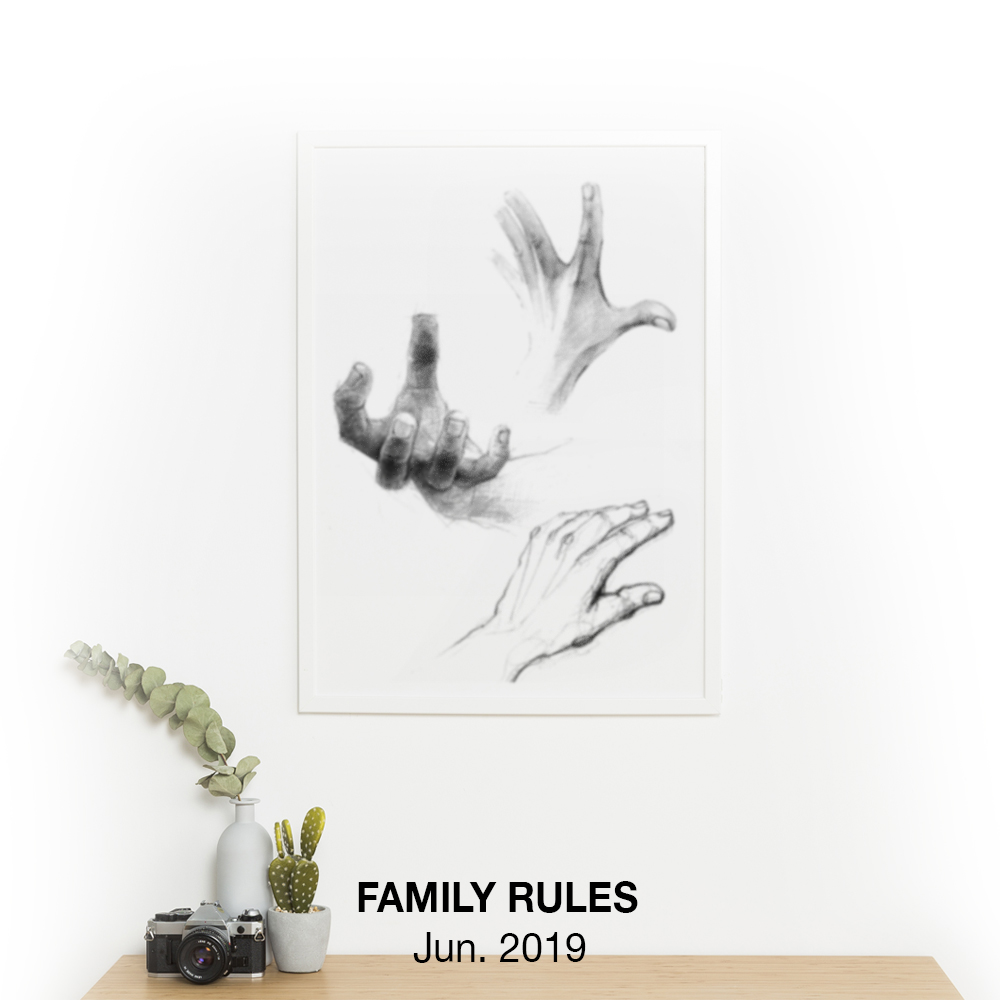
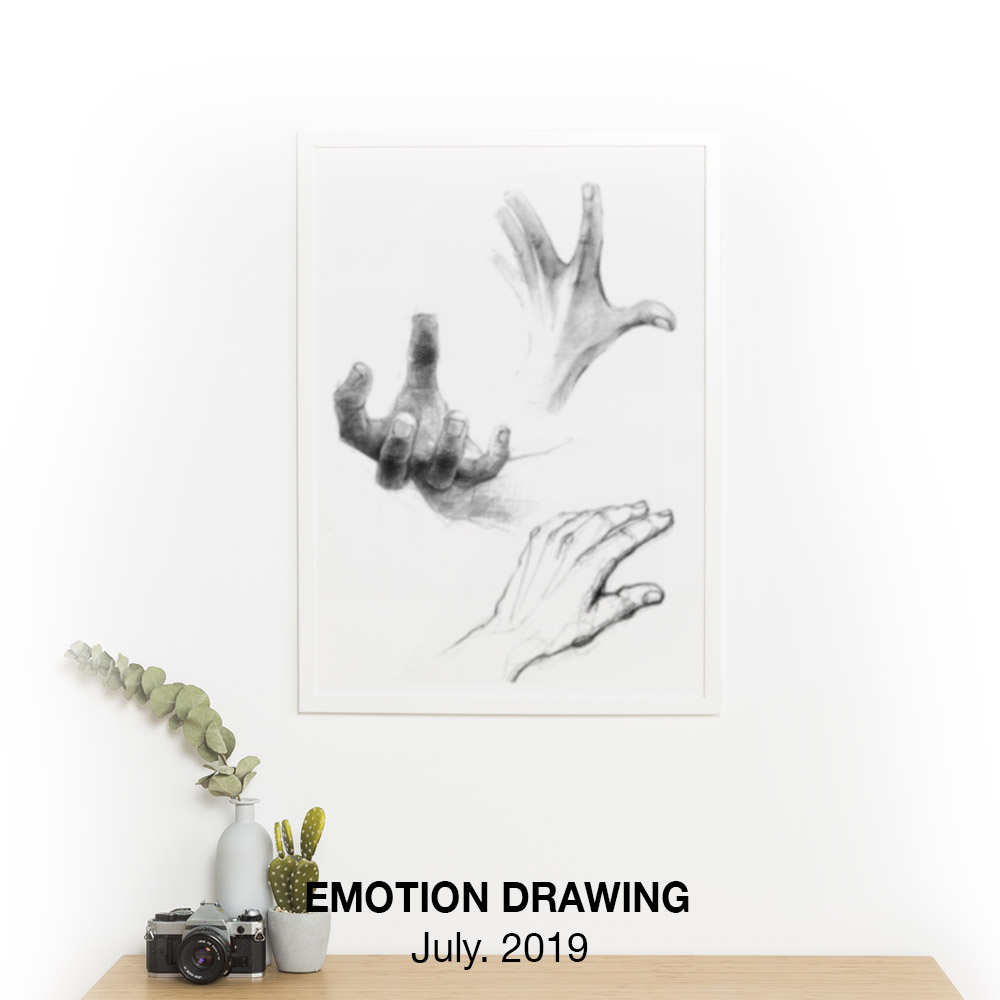
Minor issue
- Main visual of About p CSS editing
- emotiondrawing thumb replace

Changed region(s): [[0.31, 0.868, 0.682, 0.961]]

diff --git a/css/style.css b/css/style.css
@@ -66,7 +66,7 @@ body {
 .bg-main-img{
     background-image: url("../img/main.jpg");
   /* Center and scale the image nicely */
-  background-position: center;
+  background-position: left;
   background-repeat: no-repeat;
   background-size: cover;
 
@@ -1666,10 +1666,11 @@ footer .box-social i:hover {
 
 .top-bar h1 {
     font-family: 'Open Sans', sans-serif;
-    font-size: 60px;
+    font-size: 80px;
     text-transform: uppercase;
     font-weight: 800;
-    color: #000;
+    color: #fff;
+    opacity: 30%;
     line-height: 50px;
 }
 
@@ -1699,7 +1700,7 @@ footer .box-social i:hover {
     margin-top: 10%;
     line-height: 1em;
     letter-spacing: .1em;
-    text-shadow: -5px 5px 0px #d02137;
+    /* text-shadow: -5px 5px 0px #d02137; */
 }
 
 .top-bar-about h5 {
@@ -1708,8 +1709,10 @@ footer .box-social i:hover {
     margin: 30px auto;
     text-align: center;
     margin-bottom: 60px;
-    letter-spacing: 2px;
+    letter-spacing: 4px;
     font-size: 1.3rem;
+    color: #fff;
+    opacity: 30%;
 }
 
 .about-content {
